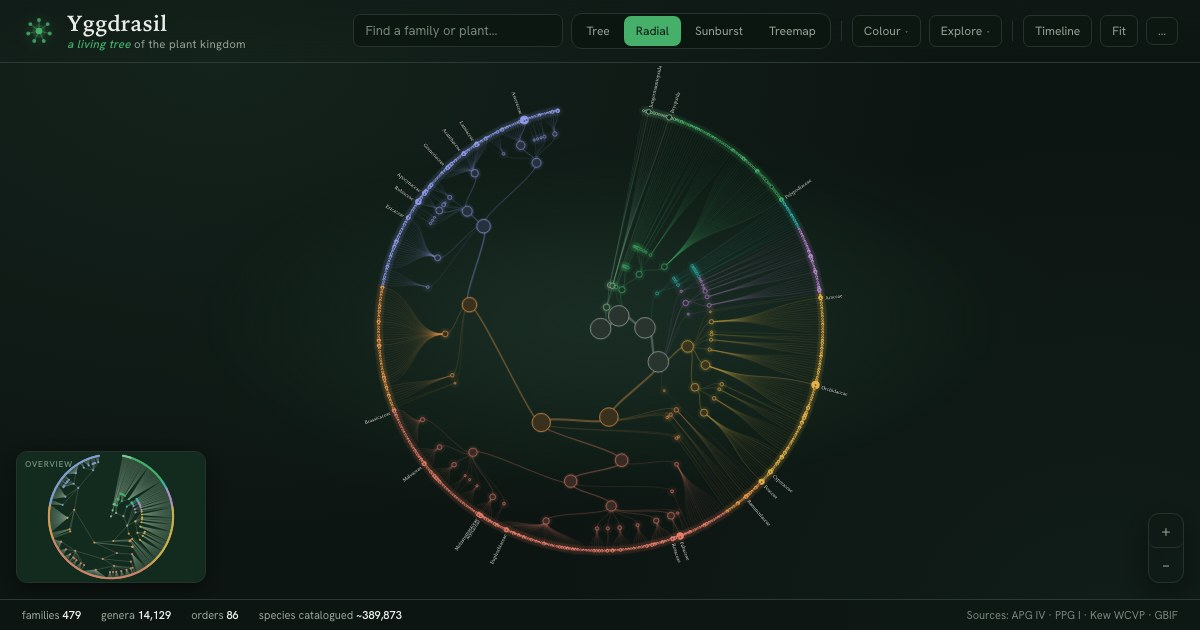
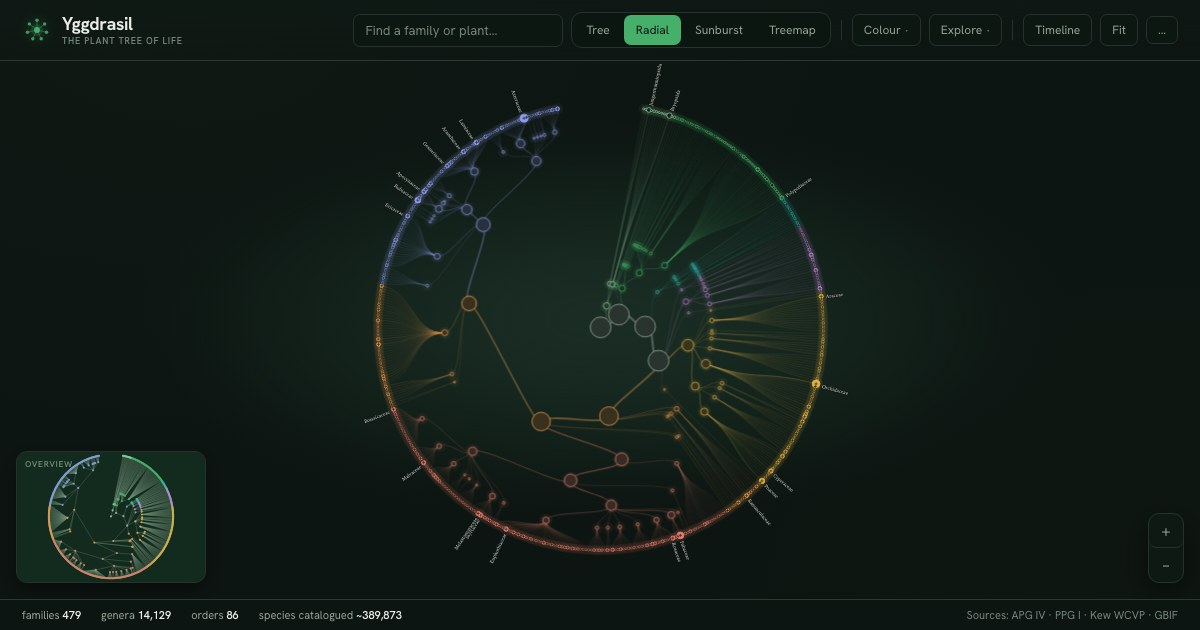
Chrome refinement: subtler background + sans brand lockup
- Background: the two green radial glows were too loud. Dialled them down to a
  faint near-ground vignette (#0f1813 / #0e1611 at lower reach) — a whisper of
  depth instead of an obvious green wash.
- Brand: the header wordmark moves from serif to a tight sans lockup —
  "Yggdrasil" (Hanken Grotesk, 700, -0.02em) over a small tracked uppercase
  eyebrow. Tagline reworked from "a living tree of the plant kingdom" to
  "The plant tree of life". Mark tightened to 30px.
- Regenerated og.jpg to match.

Smoke 23/23.

diff --git a/plant-tree.html b/plant-tree.html
@@ -56,8 +56,8 @@
   html,body{height:100%;margin:0}
   body{
     background:
-      radial-gradient(1200px 800px at 18% 8%, #14231c 0%, transparent 60%),
-      radial-gradient(1000px 900px at 92% 100%, #101d18 0%, transparent 55%),
+      radial-gradient(1300px 850px at 16% 2%, #0f1813 0%, transparent 52%),
+      radial-gradient(1100px 950px at 96% 100%, #0e1611 0%, transparent 48%),
       var(--ground);
     color:var(--ink); font-family:var(--sans);
     display:flex; flex-direction:column; overflow:hidden;
@@ -72,15 +72,16 @@
     z-index:5;
   }
   /* brand lockup: the radial-burst mark + wordmark */
-  .brand{display:flex; align-items:center; gap:11px; text-decoration:none; color:inherit}
-  .mark{width:34px; height:34px; flex:none; color:var(--l-fern);
+  .brand{display:flex; align-items:center; gap:10px; text-decoration:none; color:inherit}
+  .mark{width:30px; height:30px; flex:none; color:var(--l-fern);
     filter:drop-shadow(0 0 5px color-mix(in srgb, var(--l-fern) 45%, transparent));
     transition:transform var(--dur-2) var(--ease-settle), filter var(--dur-2) var(--ease-out)}
   .brand:hover .mark{transform:rotate(20deg); filter:drop-shadow(0 0 9px color-mix(in srgb, var(--l-fern) 70%, transparent))}
   .wordmark{display:flex; flex-direction:column; line-height:1}
-  .wm-name{font-family:var(--serif); font-weight:600; font-size:22px; letter-spacing:.2px; margin:0}
-  .wm-tag{margin-top:4px; font-size:11.5px; color:var(--dim); letter-spacing:.3px}
-  .wm-tag em{font-style:italic; color:var(--l-fern); font-weight:500}
+  /* sans lockup: tight wordmark over a tracked uppercase eyebrow */
+  .wm-name{font-family:var(--sans); font-weight:700; font-size:18px; letter-spacing:-.02em; margin:0; color:var(--ink)}
+  .wm-tag{margin-top:4px; font-size:9px; font-weight:600; letter-spacing:.09em; text-transform:uppercase; color:var(--faint)}
+  .wm-tag em{font-style:normal; color:var(--l-fern)}
   .mark-lg{width:54px; height:54px; display:block; margin:0 auto 12px}
   .spacer{flex:1}
   .controls{display:flex; align-items:center; gap:8px; flex-wrap:wrap}
@@ -548,7 +549,7 @@
     <svg class="mark" aria-hidden="true"><use href="#ygg-mark"/></svg>
     <span class="wordmark">
       <h1 class="wm-name">Yggdrasil</h1>
-      <span class="wm-tag"><em>a living tree</em> of the plant kingdom</span>
+      <span class="wm-tag">The plant tree of life</span>
     </span>
   </div>
   <div class="spacer"></div>